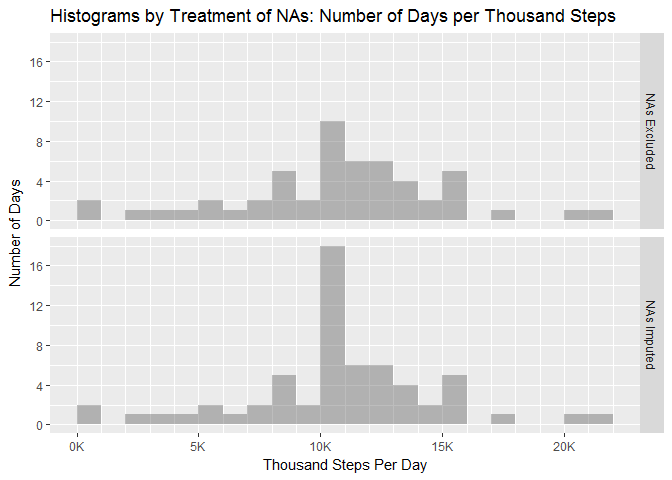
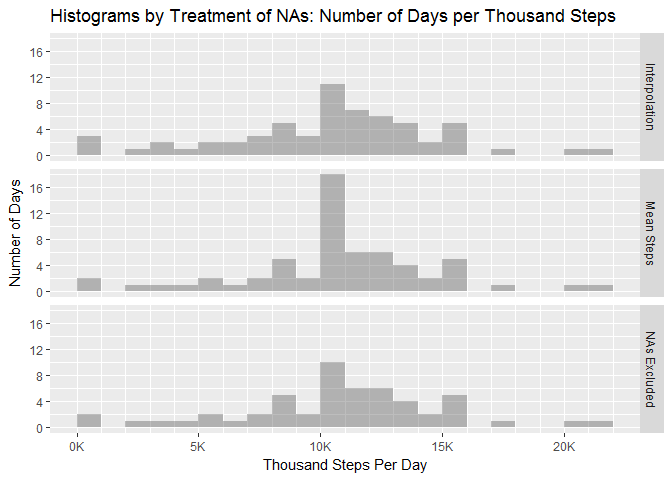
Final github_doc w/ interpolation of NAs

diff --git a/Clarpaul_Reproducible_Research_PA1.md b/Clarpaul_Reproducible_Research_PA1.md
@@ -36,8 +36,10 @@ Before starting, we load required packages and read the data. We also create a d
 # set CRAN mirror for package installation
 mir <- "https://cloud.r-project.org"
 # Load required packages
-if (!require(dplyr)) {install.packages("dplyr", repos = mir); require(dplyr)}
-if (!require(ggplot2)) {install.packages("ggplot2", repos = mir); require(ggplot2)}
+if (!require(dplyr)) {install.packages("dplyr", repos = mir); require(dplyr)} # data processing
+if (!require(ggplot2)) {install.packages("ggplot2", repos = mir); require(ggplot2)} # plotting
+if (!require(zoo)) {install.packages("zoo"); require(zoo)} # imputation of missing values
+if (!require(tidyr)) {install.packages("tidyr"); require(tidyr)} # data processing
 ```
 
 ``` r
@@ -191,12 +193,12 @@ num_NAs <- sum(is.na(activity$steps))
 The 8 days in question are the following:
 
 ``` r
-with(activity, unique(date[is.na(steps)]))
+(na_dates <- with(activity, unique(date[is.na(steps)])))
 ## [1] "2012-10-01" "2012-10-08" "2012-11-01" "2012-11-04" "2012-11-09"
 ## [6] "2012-11-10" "2012-11-14" "2012-11-30"
 ```
 
-##### 6.1 Imputing missing values: method I
+##### 6.1 Imputing missing values: Mean Steps by Interval
 
 We now create a new data set `activityimp` by replacing each missing `steps` value in `activity` with the value for the associated 5-minute interval computed by averaging across all days (we call this the ***Mean Steps by Interval*** method of imputing the data). Since we know the exact locations of all the `NA`s, we could replace the values rather simply. Instead, we use a more general procedure by following these steps:
 
@@ -216,48 +218,11 @@ activityimp <- activity
 activityimp$steps[is.na(activity$steps)] <- 5*(stepsbyint$StepsPerMin[NAindices])
 ```
 
-##### 6.2 Imputing missing values: method II
+##### 6.2 Imputing missing values: Interpolation
 
-We now evaluate a different scheme for replacement of missing values, which involves interpolation via application of a function called `na.approx()` in the package `zoo`. We follow the method of user ***rndmacc*** on github [here](https://github.com/rndmacc/RepData_PeerAssessment1/blob/master/PA1_template.md). (User ***rndmacc*** is another student in the **Reproducible Research** class.)
-
-``` r
-# Load/install package
-if (!require(zoo)) {install.packages("zoo"); require(zoo)}
-# rndmacc says boundaries won't be interpolated unless start and end are set to 0
-activityimp_int <- activity
-activityimp_int[1,1] <- 0
-activityimp_int[nrow(activityimp_int),1] <- 0
-activityimp_int$steps <- na.approx(activityimp_int$steps)
-```
-
-We now compare the results of interpolation to the ***Mean Steps by Interval*** imputation.
+Next we impute missing days by interpolating values from adjacent days. We do this by application of a function called `na.approx()` in the package `zoo`. We start by using `tidyr` to `spread` the `activity` data frame into 'wide' format: a matrix with intervals across the columns, and one date per row.
 
 ``` r
-na_dates <- with(activity, unique(date[is.na(steps)]))
-activityimp$Method <- rep("Mean Steps by Interval", nrow(activityimp))
-activityimp_int$Method <- rep("Interpolation 1", nrow(activityimp_int))
-activityimp_full <- rbind(activityimp, activityimp_int)
-
-activityimp_fullposix <- transmute(activityimp_full, date, plottime =  as.POSIXct(paste("2012-10-01",
-        vtime(interval)), format = "%Y-%m-%d %H:%M"), StepsPerMin = steps/5, Method) 
-
-
-(ggplot(subset(activityimp_fullposix, date %in% na_dates), aes(plottime, 5*StepsPerMin, color = Method)) + 
-                geom_line() +  facet_wrap(~date) + scale_x_datetime(date_labels = "%H") + 
-                labs(x = "Time of Day (24 hr format)", y = "Average Steps Per 5-Min Interval", 
-                title = "Imputation method II: Avg steps per 5-min interval"))
-```
-
-![](Clarpaul_Reproducible_Research_PA1_files/figure-markdown_github/imputation2-1.png)
-
-We see here that this interpolation scheme fails: because `steps` is close to 0 at the border between days (and NAs occur only in blocks of one entire date), it amounts to setting `steps` at or close to 0 for each interpolated date.
-
-##### 6.3 Imputing missing values: method III
-
-Next we impute missing days by interpolating values from adjacent days. We start by using `tidyr` to `spread` the `activity` data frame into 'wide' format: a matrix with intervals across the columns, and one date per row.
-
-``` r
-if (!require(tidyr)) {install.packages("tidyr"); require(tidyr)}
 # Note: we turn the matrix into a tbl_df, for better printing; tbl_df is loaded with one of the
 # packages in Hadley's 'tidyverse'
 activity_matrix <- spread(data = activity, key = interval, value = steps) %>% tbl_df
@@ -321,7 +286,8 @@ We now plot the results of this method of interpolation on the 8 interpolated da
 activityimp_int2 <- gather(data = activity_matrix_imp2, key = interval, value = steps, -1, convert = TRUE)
 activityimp_int2 <- arrange(activityimp_int2, date) %>% select(interval, date, steps)
 
-activityimp_int2$Method <- rep("Interpolation 2", nrow(activityimp_int2))
+activityimp <- transmute(activityimp, interval = interval, date = date, steps = steps, Method = "Mean Steps")
+activityimp_int2$Method <- rep("Interpolation", nrow(activityimp_int2))
 activityimp_full2 <- rbind(activityimp, activityimp_int2)
 
 activityimp_fullposix2 <- transmute(activityimp_full2, date, plottime =  as.POSIXct(paste("2012-10-01", 
@@ -330,8 +296,8 @@ activityimp_fullposix2 <- transmute(activityimp_full2, date, plottime =  as.POSI
 
 (ggplot(subset(activityimp_fullposix2, date %in% na_dates), aes(plottime, 5*StepsPerMin, color = Method)) + 
                 geom_line() +  facet_wrap(~date) + scale_x_datetime(date_labels = "%H") + 
-                labs(x = "Time of Day (24 hr format)", y = "Average Steps Per 5-Min Interval", 
-                title = "Imputation method 3: Avg steps per 5-min interval"))
+                labs(x = "Time of Day (24-hr)", y = "Average Steps Per 5-Min Interval", 
+                title = "Imputation Method Comparison: Avg steps per 5-min interval"))
 ```
 
 ![](Clarpaul_Reproducible_Research_PA1_files/figure-markdown_github/imputation3-1.png)
@@ -366,16 +332,20 @@ round(median(stepsbydtimp$StepsPerDay) - median(stepsbydt_na$StepsPerDay, na.rm 
 
 By adding the imputed values, the mean did not change at all. This is to be expected, since all 8 days with `NA` values had imputed means equal to the population mean prior to imputing `NA`s. However, the median *Steps Per Day* moves up slightly, since the original `mean`, 10766.19, is slightly higher than the original median, 10765.
 
-We can see the precise change to the distribution most clearly if we do a 2-panel plot, juxtaposing histograms before and after imputing `NA` values. To do this, we first compute a factor variable that will be used to differentiate the two histograms in `ggplot`, then combine the two data frames (with and without imputed data), then call `ggplot`.
+We can see the precise change to the distribution most clearly if we do a panel plot, juxtaposing histograms before and after imputing `NA` values. We also examine the histogram for the imputation done by interpolation. To do this, we first compute a factor variable that will be used to differentiate the three histograms in `ggplot`, then combine the data frames (with NAs imputed by *Mean Steps* by interval, with NAs imputed by *Interpolation*, and with *NAs Excluded*), then call `ggplot`.
 
 ``` r
-# Create factor variable
-NA_Treatment <- as.factor(c(rep("NAs Excluded", nrow(stepsbydt_na)), rep("NAs Imputed", nrow(stepsbydtimp))))
-# Combine the two dataframes
-stepsbydt_impexc <- rbind(stepsbydt_na, stepsbydtimp)
+# Computing histogram info for the interpolated imputation
+stepsbydtimp_int2 <- activityimp_int2 %>% group_by(date) %>% summarize(StepsPerDay 
+                        = sum(steps, na.rm = FALSE))
+# Create factor variable to be used in ggplot
+NA_Treatment <- as.factor(c(rep("NAs Excluded", nrow(stepsbydt_na)), rep("Mean Steps",
+                nrow(stepsbydtimp)), rep("Interpolation", nrow(stepsbydtimp_int2))))
+# Combine the three dataframes
+stepsbydt_impexc <- rbind(stepsbydt_na, stepsbydtimp, stepsbydtimp_int2)
 # Add factor variable to dataframe
 stepsbydt_impexc$NA_Treatment <- NA_Treatment
-# Make 2-panel plot
+# Make 3-panel plot
 (histPanelNAimputed <- ggplot(stepsbydt_impexc, aes(StepsPerDay/1000)) + stat_bin(binwidth = 1,
         center = 0.5, closed = "right", alpha = 0.4, na.rm = FALSE) + 
         scale_x_continuous(minor_breaks = seq(0,22,1), labels = function(x){paste0(x, "K")}) +
@@ -389,7 +359,16 @@ stepsbydt_impexc$NA_Treatment <- NA_Treatment
 
 ![](Clarpaul_Reproducible_Research_PA1_files/figure-markdown_github/histPanelNAimputed-1.png)
 
-The 8 imputed days are placed exactly on top of the mean of the distribution.
+For the *Mean Steps* imputation, the 8 imputed days are placed exactly on top of the mean of the distribution. For the *Interpolation* method, the re-distribution is more disperse and organic -- perhaps closer to the true distriubtion. Changes in mean and media for *Interpolation* method:
+
+``` r
+round(mean(stepsbydtimp_int2$StepsPerDay) - mean(stepsbydt_na$StepsPerDay, na.rm = TRUE), 0)
+## [1] -394
+round(median(stepsbydtimp_int2$StepsPerDay) - median(stepsbydt_na$StepsPerDay, na.rm = TRUE), 0)
+## [1] -194
+```
+
+Both mean and median decrease when the interpolation method is used.
 
 ------------------------------------------------------------------------
 
